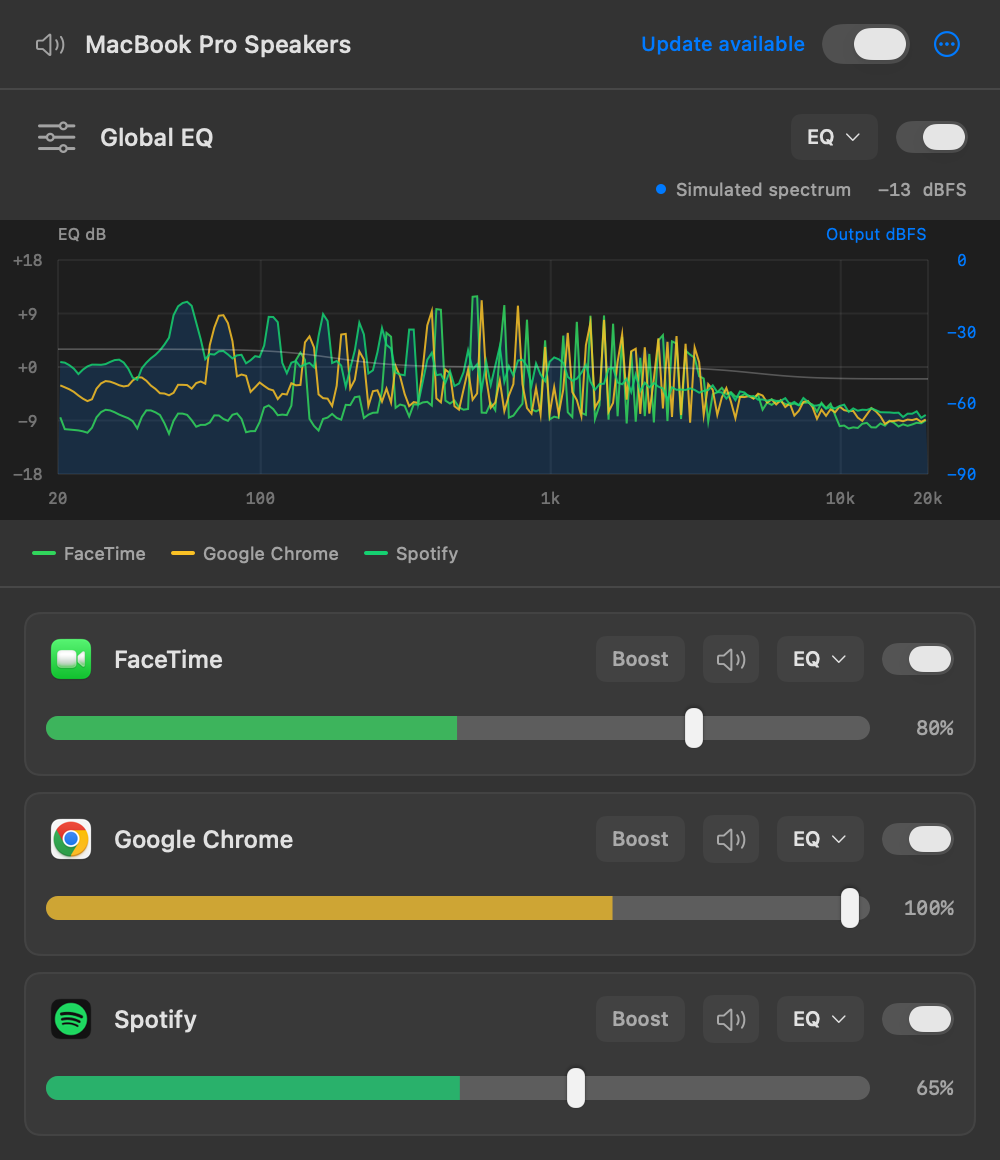
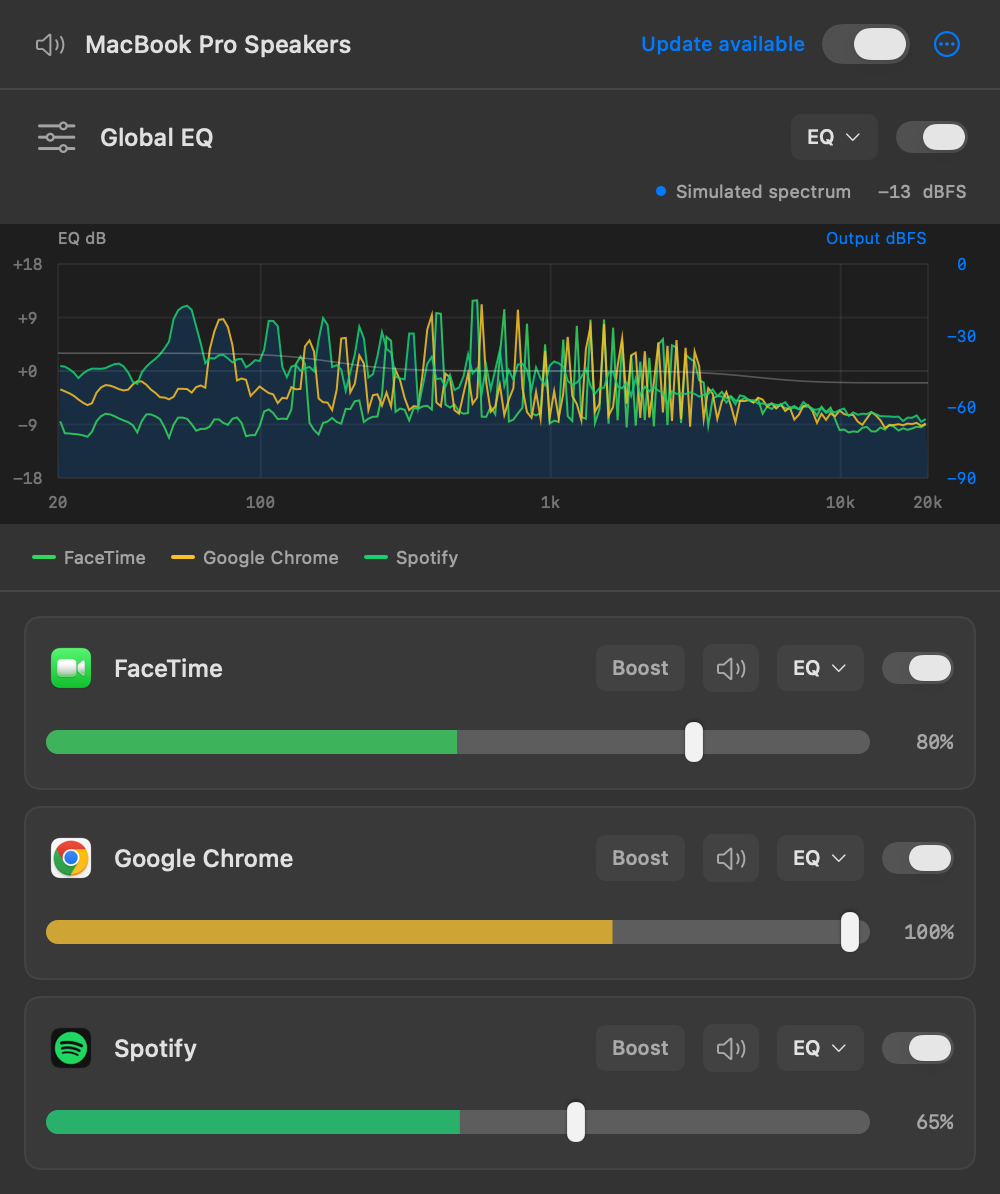
Prevent popup opening pop-in and layout shifts

diff --git a/QEQ/App/Sources/MixerView.swift b/QEQ/App/Sources/MixerView.swift
@@ -129,7 +129,7 @@ struct MixerView: View {
                     model: model, appID: MixerModel.globalEQID, compact: true,
                     overviewHandles: selected, selection: $globalBand
                 )
-                .modifier(EQContentReveal())
+                .modifier(EQContentReveal(animate: model.animateEQReveal))
             }
             if selected {
                 ParametricEQView(
@@ -137,7 +137,7 @@ struct MixerView: View {
                     controlsOnly: true, selection: $globalBand
                 )
                 .padding(.horizontal, 16).padding(.top, 4)
-                .modifier(EQContentReveal())
+                .modifier(EQContentReveal(animate: model.animateEQReveal))
             }
         }.padding(.bottom, 10)
     }
@@ -158,7 +158,7 @@ struct MixerView: View {
                     if let status = status(app, settings: settings) {
                         Text(status).font(.system(size: 10)).foregroundStyle(.secondary).lineLimit(1).help(status)
                     }
-                }
+                }.frame(height: 30, alignment: .leading)
                 Spacer()
                 Button {
                     model.edit(app.id) { $0.boostEnabled.toggle() }
@@ -231,7 +231,7 @@ struct MixerView: View {
             if selected {
                 Divider()
                 ParametricEQView(model: model, appID: app.id)
-                    .modifier(EQContentReveal())
+                    .modifier(EQContentReveal(animate: model.animateEQReveal))
             }
         }.padding(11).background(
             Color.primary.opacity(0.035), in: RoundedRectangle(cornerRadius: 8)
@@ -260,16 +260,17 @@ struct MixerView: View {
 /// Slide and fade content inside its final bounds, without moving its siblings.
 /// Clipping contains the motion; the popup and scroll layout never interpolate.
 private struct EQContentReveal: ViewModifier {
+    var animate: Bool
     @Environment(\.accessibilityReduceMotion) private var reduceMotion
     @State private var visible = false
 
     func body(content: Content) -> some View {
         content
-            .offset(y: reduceMotion || visible ? 0 : -24)
-            .opacity(reduceMotion || visible ? 1 : 0)
+            .offset(y: !animate || reduceMotion || visible ? 0 : -24)
+            .opacity(!animate || reduceMotion || visible ? 1 : 0)
             .clipped()
-            .task(id: reduceMotion) {
-                guard !reduceMotion else {
+            .task(id: animate && !reduceMotion) {
+                guard animate && !reduceMotion else {
                     visible = true
                     return
                 }

diff --git a/QEQ/App/Sources/ScreenshotRenderer.swift b/QEQ/App/Sources/ScreenshotRenderer.swift
@@ -27,7 +27,6 @@ struct ScreenshotRenderer {
         let lightAppearance = ProcessInfo.processInfo.environment["QEQ_SCREENSHOT_APPEARANCE"] == "light"
         window.appearance = NSAppearance(named: lightAppearance ? .aqua : .darkAqua)
         window.contentViewController = host
-        window.makeKeyAndOrderFront(nil)
         defer { window.orderOut(nil) }
         func layout() -> CGSize {
             for _ in 0..<12 {
@@ -41,7 +40,18 @@ struct ScreenshotRenderer {
             return host.view.bounds.size
         }
         func capture(_ name: String, maximum: CGFloat) throws {
+            let prepared = PopoverLayout.prepare(host, maximumHeight: model.maximumPanelHeight)
+            window.setContentSize(prepared)
+            if !window.isVisible { window.makeKeyAndOrderFront(nil) }
             let size = layout()
+            guard abs(prepared.height - size.height) <= 1 else {
+                throw NSError(
+                    domain: "QEQ layout", code: 4,
+                    userInfo: [
+                        NSLocalizedDescriptionKey:
+                            "\(name) changed height after presentation: \(prepared.height) → \(size.height)"
+                    ])
+            }
             guard size.height <= maximum + 1, size.height > 120 else {
                 throw NSError(
                     domain: "QEQ screenshots", code: 1,
@@ -114,6 +124,22 @@ struct ScreenshotRenderer {
             \.controlActiveState, .active
         ).id("mixer")
         try capture("mixer", maximum: MixerModel.panelHeightLimit)
+        // Opening starts taps asynchronously. Their first readings must not add
+        // a legend/status row or change the already-presented panel's geometry.
+        let streaming = model.telemetry
+        let active = model.snapshot.active
+        model.telemetry = AudioTelemetry()
+        model.snapshot.active = []
+        let waitingSize = layout()
+        model.telemetry = streaming
+        model.snapshot.active = active
+        let streamingSize = layout()
+        guard abs(waitingSize.height - streamingSize.height) <= 1 else {
+            throw NSError(
+                domain: "QEQ layout", code: 5,
+                userInfo: [NSLocalizedDescriptionKey: "First audio readings changed the panel height"])
+        }
+        print("first audio readings preserve panel height: \(Int(streamingSize.height)) pt")
         try DesktopScreenshot.render(
             model: model, panelHeight: layout().height, appearance: window.appearance,
             to: directory.appendingPathComponent("desktop-mixer.png"))

diff --git a/QEQ/App/Sources/App.swift b/QEQ/App/Sources/App.swift
@@ -12,6 +12,7 @@ final class MixerModel: ObservableObject {
     @Published var enabled = false
     @Published var changing = false
     @Published var selectedEQ: String?
+    @Published var animateEQReveal = false
     @Published var telemetry = AudioTelemetry()
     static let panelHeightLimit: CGFloat = 1000
     @Published var maximumPanelHeight: CGFloat = MixerModel.panelHeightLimit
@@ -166,6 +167,7 @@ final class MixerModel: ObservableObject {
         }
     }
     func selectEQ(_ id: String) {
+        animateEQReveal = true
         selectedEQ = selectedEQ == id ? nil : id
         refreshAnalysis()
     }
@@ -206,6 +208,7 @@ final class AppDelegate: NSObject, NSApplicationDelegate, NSPopoverDelegate {
     }
     private var item: NSStatusItem!
     private let popover = NSPopover()
+    private var mixerHost: NSHostingController<MixerView>?
     private var performanceRecorder: PerformanceRecorder?
     func applicationDidFinishLaunching(_ notification: Notification) {
         NSApp.setActivationPolicy(.accessory)
@@ -246,10 +249,10 @@ final class AppDelegate: NSObject, NSApplicationDelegate, NSPopoverDelegate {
         item.button?.action = #selector(togglePopover)
         popover.behavior = .transient
         popover.delegate = self
-        popover.contentSize = NSSize(width: 500, height: 240)
         let host = NSHostingController(rootView: MixerView(model: model, updates: updates))
         host.sizingOptions = [.preferredContentSize]
         popover.contentViewController = host
+        mixerHost = host
         // Show the controls once at launch so a menu-bar-only app is easy to find.
         DispatchQueue.main.asyncAfter(deadline: .now() + 0.5) { [weak self] in
             guard let self else { return }
@@ -272,10 +275,12 @@ final class AppDelegate: NSObject, NSApplicationDelegate, NSPopoverDelegate {
         if popover.isShown { popover.performClose(nil) } else { showPopover() }
     }
     private func showPopover() {
-        guard let button = item.button else { return }
+        guard let button = item.button, let host = mixerHost else { return }
+        model.animateEQReveal = false
         model.maximumPanelHeight = min(
             MixerModel.panelHeightLimit,
             max(280, (button.window?.screen ?? NSScreen.main)?.visibleFrame.height ?? 768) - 48)
+        popover.contentSize = PopoverLayout.prepare(host, maximumHeight: model.maximumPanelHeight)
         model.setPanelVisible(true)
         NSApp.activate(ignoringOtherApps: true)
         popover.show(relativeTo: button.bounds, of: button, preferredEdge: .minY)

diff --git a/QEQ/App/Sources/ParametricEQView.swift b/QEQ/App/Sources/ParametricEQView.swift
@@ -24,7 +24,8 @@ struct ParametricEQView: View {
         isGlobal ? model.telemetry : model.telemetry.apps[appID] ?? AudioTelemetry()
     }
     private var spectrumApps: [AudioApplication] {
-        Array(model.snapshot.apps.filter { model.telemetry.apps[$0.id]?.spectrum.isEmpty == false }.prefix(6))
+        // The legend is known before taps start delivering telemetry.
+        Array(model.snapshot.apps.filter { $0.playing }.prefix(6))
     }
     private var processing: Bool {
         model.enabled
@@ -63,6 +64,7 @@ struct ParametricEQView: View {
                         ).foregroundStyle(.secondary)
                     }
                 }
+                .frame(height: 13)
                 .padding(.horizontal, isGlobal ? 16 : 0)
                 .help(
                     isGlobal
@@ -70,7 +72,7 @@ struct ParametricEQView: View {
                         : "App output after app EQ, Global EQ, volume, and limiting. The curve shows this app's EQ only."
                 )
                 graph.frame(height: compact ? 150 : 190)
-                if isGlobal && processing && !spectrumApps.isEmpty {
+                if isGlobal && !spectrumApps.isEmpty {
                     ScrollView(.horizontal, showsIndicators: false) {
                         HStack(spacing: 12) {
                             ForEach(spectrumApps) { app in
@@ -197,7 +199,6 @@ struct ParametricEQView: View {
             let rect = CGRect(x: 29, y: 20, width: geometry.size.width - 65, height: geometry.size.height - 43)
             let upper = maxFrequency
             ZStack {
-                RoundedRectangle(cornerRadius: isGlobal ? 0 : 6).fill(Color(nsColor: .textBackgroundColor))
                 Canvas { context, size in
                     func x(_ hz: Double) -> CGFloat { rect.minX + log(hz / 20) / log(upper / 20) * rect.width }
                     func y(_ db: Double) -> CGFloat { rect.midY - db / 36 * rect.height }
@@ -297,7 +298,7 @@ struct ParametricEQView: View {
                 .help(
                     "Frequency is logarithmic: equal distance means equal frequency ratio. Left axis: EQ gain. Right axis: actual output level. A −18 dB cut reduces amplitude by about 87%; it does not mute that frequency. The spectrum uses a 16,384-sample analysis window, separate from playback."
                 )
-        }
+        }.background(Color(nsColor: .textBackgroundColor), in: RoundedRectangle(cornerRadius: isGlobal ? 0 : 6))
     }
     private var spectrumLayer: some View {
         ZStack {

diff --git a/QEQ/App/Sources/PopoverLayout.swift b/QEQ/App/Sources/PopoverLayout.swift
@@ -1,0 +1,23 @@
+import AppKit
+import SwiftUI
+
+/// Resolve the content's measured height before AppKit presents the popover.
+/// Otherwise its placeholder size becomes visible before SwiftUI preferences settle.
+@MainActor
+enum PopoverLayout {
+    static func prepare<Content: View>(
+        _ host: NSHostingController<Content>, maximumHeight: CGFloat
+    ) -> NSSize {
+        let proposal = NSSize(width: 500, height: maximumHeight)
+        var size = proposal
+        for _ in 0..<4 {
+            host.view.setFrameSize(size)
+            host.view.layoutSubtreeIfNeeded()
+            let measured = host.sizeThatFits(in: proposal)
+            size = NSSize(width: 500, height: min(maximumHeight, measured.height))
+        }
+        host.view.setFrameSize(size)
+        host.view.layoutSubtreeIfNeeded()
+        return size
+    }
+}

diff --git a/docs/DEVELOPMENT.md b/docs/DEVELOPMENT.md
@@ -31,7 +31,7 @@ The popup uses AppKit’s popover material for system backdrop blur and the Redu
 - Mono/stereo Float32 output devices with a single output stream are supported. Multichannel/multistream devices are rejected explicitly. This version processes the **current system output**; apps explicitly routed to a different output should be set to the system output first.
 - EQ: five configurable bands, 20 Hz–20 kHz (limited to 45% of sample rate), ±18 dB. Bell, low/high shelf, and 12 dB/octave low/high cut filters. Bell/cut Q spans 0.1–10; shelf slope spans 0.1–1. Each band can be bypassed. Boosts raise their selected frequencies without fixed full-band attenuation. Stereo-linked sample-peak protection reduces gain only when output would exceed full scale, then releases over 50 ms; it adds no lookahead or playback buffering. The live “Limiting” indicator shows reduction. Lower app volume when more headroom is needed. This is sample-peak protection, not an oversampled true-peak limiter. Volume is 0–100% by default. Each app’s Boost button extends its range to 200% (+6.02 dB); disabling Boost caps saved volume at 100%. The existing parameter ramp and peak protection also apply to volume boost.
 - Drag numbered graph handles to change frequency/gain. Click a band, enter exact frequency/gain/Q values, or use the width slider. The neutral line is the filter response (EQ dB, before app volume and peak protection); a dashed line indicates a preview while bypassed. The system accent color fills the live processed-output spectrum (−90…0 dBFS). Double-click a numbered handle to restore that band’s defaults.
-- Global EQ spans the popup width with its expanded controls attached beneath the graph, above the scrolling app list. Only its visualizer collapses while an app's EQ is expanded; the global header, bypass switch, and EQ button remain available. The visualizer returns when the app editor closes, and global processing stays active throughout. EQ layout updates without geometry animation: the app list fills the remaining space inside a bounded popup, while incoming content slides down 24 points and fades in inside clipped bounds, and chevrons rotate. Reduce Motion disables those decorative animations. The popup fits its content up to 1,000 points or the available screen height; search is omitted to leave more room for apps. Its response line is subdued. App volume sliders contain live output-peak meters (−60…0 dBFS), after volume, mute, and both EQs. The narrow handle controls volume; live activity scales into the track span up to that handle, with exact output dBFS available in the tooltip; double-click it to restore 100%. With Boost enabled, 0–100% occupies the first 80% of slider travel; the final 20% rises exponentially from 100% to 200% (equal travel gives equal dB steps). A high-contrast marker across the track indicates unity gain, with end caps visible when the handle is at 100%. Native slider tracking, keyboard adjustment, and VoiceOver remain available. Meters share the global spectrum’s stable app colors and remain visible while app EQ is expanded. Muted apps instead show gray source activity measured before EQ, volume and mute, still contained within the volume handle. Output spectra remain post-mute and silent. Source metering uses a scalar peak from the existing callback, with no additional tap, buffer, or FFT. Meter fill interpolates between telemetry readings at up to 60 fps, with a 50 ms rise and 80 ms fall. It retargets from the current displayed level; the handle and unity marker never animate. Display links stop when settled, hidden, removed, or bypassed. Reduce Motion uses immediate readings. This only smooths drawing, not audio or analysis. Global bypass releases the taps, so meters show unavailable rather than fabricated activity.
+- Global EQ spans the popup width with its expanded controls attached beneath the graph, above the scrolling app list. Only its visualizer collapses while an app's EQ is expanded; the global header, bypass switch, and EQ button remain available. The visualizer returns when the app editor closes, and global processing stays active throughout. EQ layout updates without geometry animation: the app list fills the remaining space inside a bounded popup, while incoming content slides down 24 points and fades in inside clipped bounds, and chevrons rotate. Those reveal animations run only when changing EQ selection; opening the popup presents the existing graph immediately. The hosting view resolves its measured size before the popover opens. Spectrum legends use the known playing-app list rather than waiting for audio callbacks, and status rows keep a fixed height so the first readings do not resize the panel. Reduce Motion disables those decorative animations. The popup fits its content up to 1,000 points or the available screen height; search is omitted to leave more room for apps. Its response line is subdued. App volume sliders contain live output-peak meters (−60…0 dBFS), after volume, mute, and both EQs. The narrow handle controls volume; live activity scales into the track span up to that handle, with exact output dBFS available in the tooltip; double-click it to restore 100%. With Boost enabled, 0–100% occupies the first 80% of slider travel; the final 20% rises exponentially from 100% to 200% (equal travel gives equal dB steps). A high-contrast marker across the track indicates unity gain, with end caps visible when the handle is at 100%. Native slider tracking, keyboard adjustment, and VoiceOver remain available. Meters share the global spectrum’s stable app colors and remain visible while app EQ is expanded. Muted apps instead show gray source activity measured before EQ, volume and mute, still contained within the volume handle. Output spectra remain post-mute and silent. Source metering uses a scalar peak from the existing callback, with no additional tap, buffer, or FFT. Meter fill interpolates between telemetry readings at up to 60 fps, with a 50 ms rise and 80 ms fall. It retargets from the current displayed level; the handle and unity marker never animate. Display links stop when settled, hidden, removed, or bypassed. Reduce Motion uses immediate readings. This only smooths drawing, not audio or analysis. Global bypass releases the taps, so meters show unavailable rather than fabricated activity.
 - The minimum band gain is −18 dB, not silence: it leaves about 13% amplitude in the affected range. A logarithmic spectrum still shows that remaining energy; the Gain tooltip explains this amplitude relationship.
 - The optional 16,384-sample Hann-window spectrum uses Accelerate off the audio thread at ~30 fps. Atomic snapshots never delay playback. At 48 kHz the analysis window covers about 341 ms of recent sound; this affects visual settling, not playback latency. The plot uses 192 logarithmic frequency bands. Frequency bins use interpolated boundaries, and there is no extra peak hold to conceal EQ cuts or mute. Global and per-app spectrum shapes interpolate over 33 ms between measured frames, including the global app overlays. Measurements arrive every 33 ms (with 2 ms timer leeway) to avoid a stationary gap between transitions; the analysis timer stops when the panel is closed. Only trace geometry animates; axes, EQ response and handles stay static. Interpolation preserves the dBFS scale and frequency bins, stops when values settle, and is disabled by Reduce Motion. This display smoothing does not change the FFT or audio path. Both the EQ-gain (left) and output-dBFS (right) scales are labeled; the frequency axis is logarithmic. Stereo powers are combined without phase cancellation. While the popup is open and the main mixer is enabled, playing apps acquire neutral routes as needed for analysis, even with flat EQ. Closing it releases analysis-only routes. The Global EQ graph overlays up to six app spectra with matching labels. Each trace uses a cached dominant icon hue keyed by app identity, or a deterministic fallback for monochrome/missing icons, so playback and list changes do not reassign colors; its filled envelope is the strongest app in each frequency bin, not a phase-aligned measurement of the final mixed output. Per-app spectra include both app and global processing. Global bypass always releases all routes.
 - Chrome/Electron helper clients resolve to their outer application’s name, icon, and bundle ID. Legacy helper-key settings migrate to that app; existing parent settings take precedence.

diff --git a/CHANGELOG.md b/CHANGELOG.md
@@ -2,6 +2,7 @@
 
 ## Unreleased
 
+- Prevent popup opening pop-in by preparing its size before presentation and keeping live status and legend layout stable.
 - Combine per-app volume sliders with smooth, app-colored activity meters; muted apps show gray source activity.
 - Add optional volume boost up to 200%, with an exponential boost range and a clear 100% marker.
 - Double spectrum detail to 192 bands and refresh at 30 Hz with short, smooth transitions.
